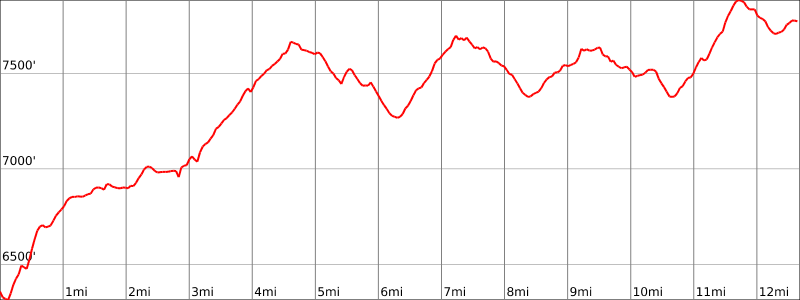
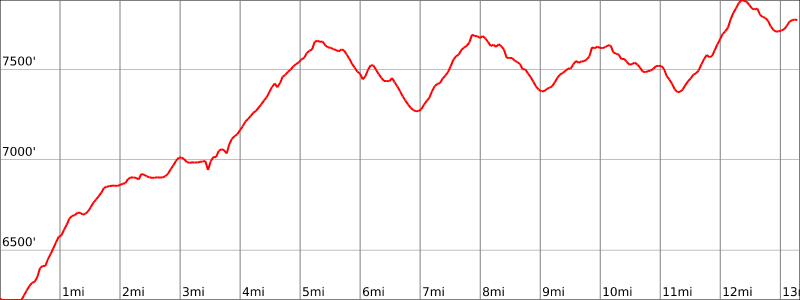
fix trt day 1 mileage

Changed region(s): [[0.0, 0.0, 1.0, 1.0], [0.375, 0.93, 1.0, 0.99]]

diff --git a/content/blog/trips/tahoe-rim-trail-2018/tahoe-city-to-watson-lake/index.md b/content/blog/trips/tahoe-rim-trail-2018/tahoe-city-to-watson-lake/index.md
@@ -77,7 +77,7 @@ Belly full, I headed back to my tent to sleep. This was clearly not a plan share
 
 ## Stats
 
-13 miles +3,000ft, -1,600ft total elevation change.
+13 miles +3,100ft, -1,600ft total elevation change.
 
 ![TRT Day 1 trail profile](profile.png)
 
